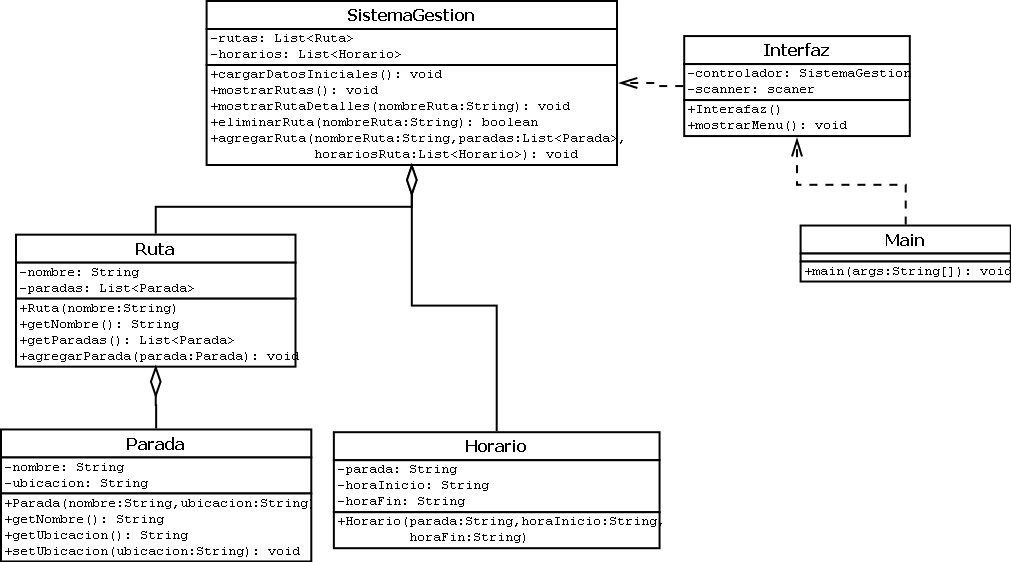
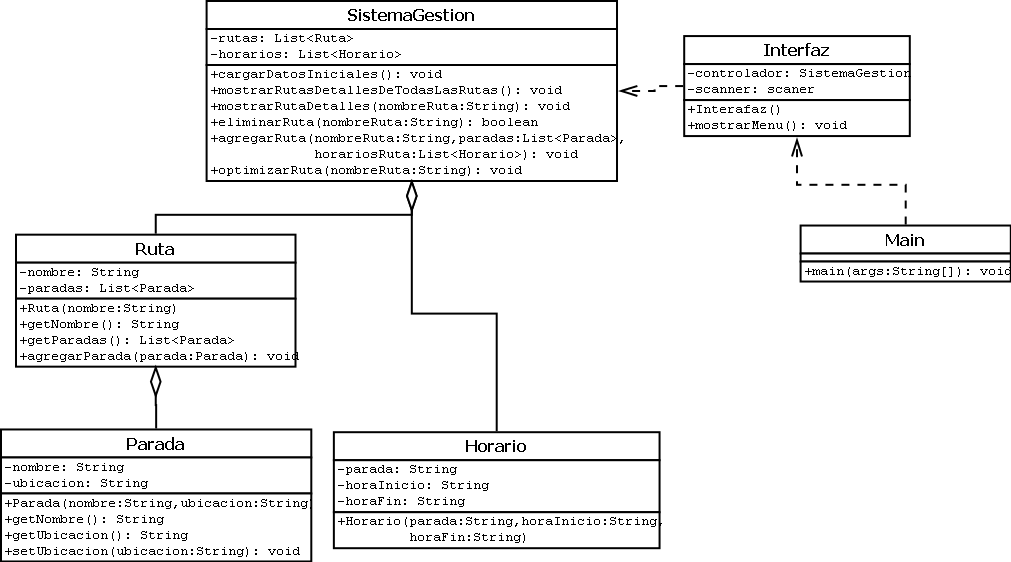
final

diff --git a/Solucion_Codigo/ProyectoBuses/src/controller/SistemaGestion.java b/Solucion_Codigo/ProyectoBuses/src/controller/SistemaGestion.java
@@ -9,7 +9,6 @@ public class SistemaGestion {
 
     private List<Ruta> rutas = new ArrayList<>();
     private List<Horario> horarios = new ArrayList<>();
-    private DateTimeFormatter formatter = DateTimeFormatter.ofPattern("HH:mm");
 
     // Aqui de ejemplo añadi algunas paradas y en la ruta que iran con su respectivo horarios
     public void cargarDatosIniciales() {
@@ -25,7 +24,7 @@ public class SistemaGestion {
 
         Ruta ruta3 = new Ruta("Linea 3");
         ruta3.agregarParada(new Parada("Parada Oeste", "Av. Amazonas y Bolívar"));
-        ruta3.agregarParada(new Parada("Parada Central", "Plaza Principal"));
+        ruta3.agregarParada(new Parada("Parada Centro", "Plaza Principal"));
         rutas.add(ruta3);
 
         horarios.add(new Horario("Parada Norte", "07:00", "07:05"));
@@ -35,7 +34,6 @@ public class SistemaGestion {
         horarios.add(new Horario("Parada Oeste", "09:00", "09:05"));
         horarios.add(new Horario("Parada Central", "09:10", "09:15"));
     }
-
 
     public void mostrarRutas() {
         for (Ruta ruta : rutas) {
@@ -85,5 +83,73 @@ public class SistemaGestion {
         rutas.add(nuevaRuta);
         horarios.addAll(horariosRuta); // Añade los horarios asociados a esta ruta
     }
-    
+
+    public boolean optimizarRutaPorRedundancia(String nombreRuta) {
+        Ruta rutaSeleccionada = null;
+
+        // Buscar la ruta con el nombre dado
+        for (Ruta ruta : rutas) {
+            if (ruta.getNombre().equalsIgnoreCase(nombreRuta)) {
+                rutaSeleccionada = ruta;
+                break;
+            }
+        }
+
+        if (rutaSeleccionada == null) {
+            System.out.println("Ruta no encontrada.");
+            return false;
+        }
+
+        List<Parada> paradasParaEliminar = new ArrayList<>();
+
+        // Buscar paradas duplicadas con otras rutas
+        for (Parada parada : rutaSeleccionada.getParadas()) {
+            for (Ruta otraRuta : rutas) {
+                if (!otraRuta.getNombre().equalsIgnoreCase(nombreRuta)) {
+                    for (Parada pOtra : otraRuta.getParadas()) {
+                        if (pOtra.getNombre().equalsIgnoreCase(parada.getNombre())) {
+                            paradasParaEliminar.add(parada);
+                            break;
+                        }
+                    }
+                }
+            }
+        }
+
+        if (paradasParaEliminar.isEmpty()) {
+            System.out.println("Ruta no puede optimizarse (no hay paradas duplicadas).");
+            return false;
+        }
+
+        // Eliminar paradas duplicadas
+        rutaSeleccionada.getParadas().removeAll(paradasParaEliminar);
+
+        // También eliminamos los horarios relacionados con las paradas eliminadas
+        horarios.removeIf(h -> paradasParaEliminar.stream()
+                .anyMatch(p -> p.getNombre().equalsIgnoreCase(h.getParada())));
+
+        System.out.println("Ruta optimizada eliminando paradas duplicadas con otras rutas.");
+        return true;
+    }
+
+    public void mostrarDetallesDeTodasLasRutas() {
+        if (rutas.isEmpty()) {
+            System.out.println("No hay rutas registradas.");
+            return;
+        }
+
+        for (Ruta ruta : rutas) {
+            System.out.println("Ruta: " + ruta.getNombre());
+            for (Parada parada : ruta.getParadas()) {
+                System.out.println("  Parada: " + parada.getNombre() + " - " + parada.getUbicacion());
+                for (Horario horario : horarios) {
+                    if (horario.getParada().equalsIgnoreCase(parada.getNombre())) {
+                        System.out.println("    Horario: " + horario.getHoraInicio() + " - " + horario.getHoraFin());
+                    }
+                }
+            }
+            System.out.println("----------------------------------------");
+        }
+    }
+
 }

diff --git a/Solucion_Codigo/ProyectoBuses/src/view/Interfaz.java b/Solucion_Codigo/ProyectoBuses/src/view/Interfaz.java
@@ -21,10 +21,11 @@ public class Interfaz {
         int opcion = -1;
         while (opcion != 0) {
             System.out.println("\n--- Menú de Gestión de Buses ---");
-            System.out.println("1. Mostrar rutas");
+            System.out.println("1. Mostrar todas las rutas");
             System.out.println("2. Mostrar detalle de ruta");
             System.out.println("3. Eliminar una ruta");
             System.out.println("4. Añadir una nueva ruta");
+            System.out.println("5. Optimizar ruta eliminando paradas duplicadas");
             System.out.println("0. Salir");
             System.out.print("Ingrese opción: \n");
 
@@ -37,10 +38,10 @@ public class Interfaz {
 
             switch (opcion) {
                 case 1:
-                    controlador.mostrarRutas();
+                    controlador.mostrarDetallesDeTodasLasRutas();
                     break;
                 case 2:
-                    System.out.print("Ingrese nombre:");
+                    System.out.print("Ingrese nombre de la ruta: ");
                     String nombreRuta = scanner.nextLine();
                     controlador.mostrarRutaDetalle(nombreRuta);
                     break;
@@ -83,6 +84,11 @@ public class Interfaz {
 
                     controlador.agregarRuta(nuevaRuta, nuevasParadas, nuevosHorarios);
                     System.out.println("Ruta y horarios añadidos exitosamente.");
+                    break;
+                case 5:
+                    System.out.print("Ingrese nombre de la ruta a optimizar: ");
+                    String nombreOpt = scanner.nextLine();
+                    controlador.optimizarRutaPorRedundancia(nombreOpt);
                     break;
                 case 0:
                     System.out.println("Saliendo del sistema...");
